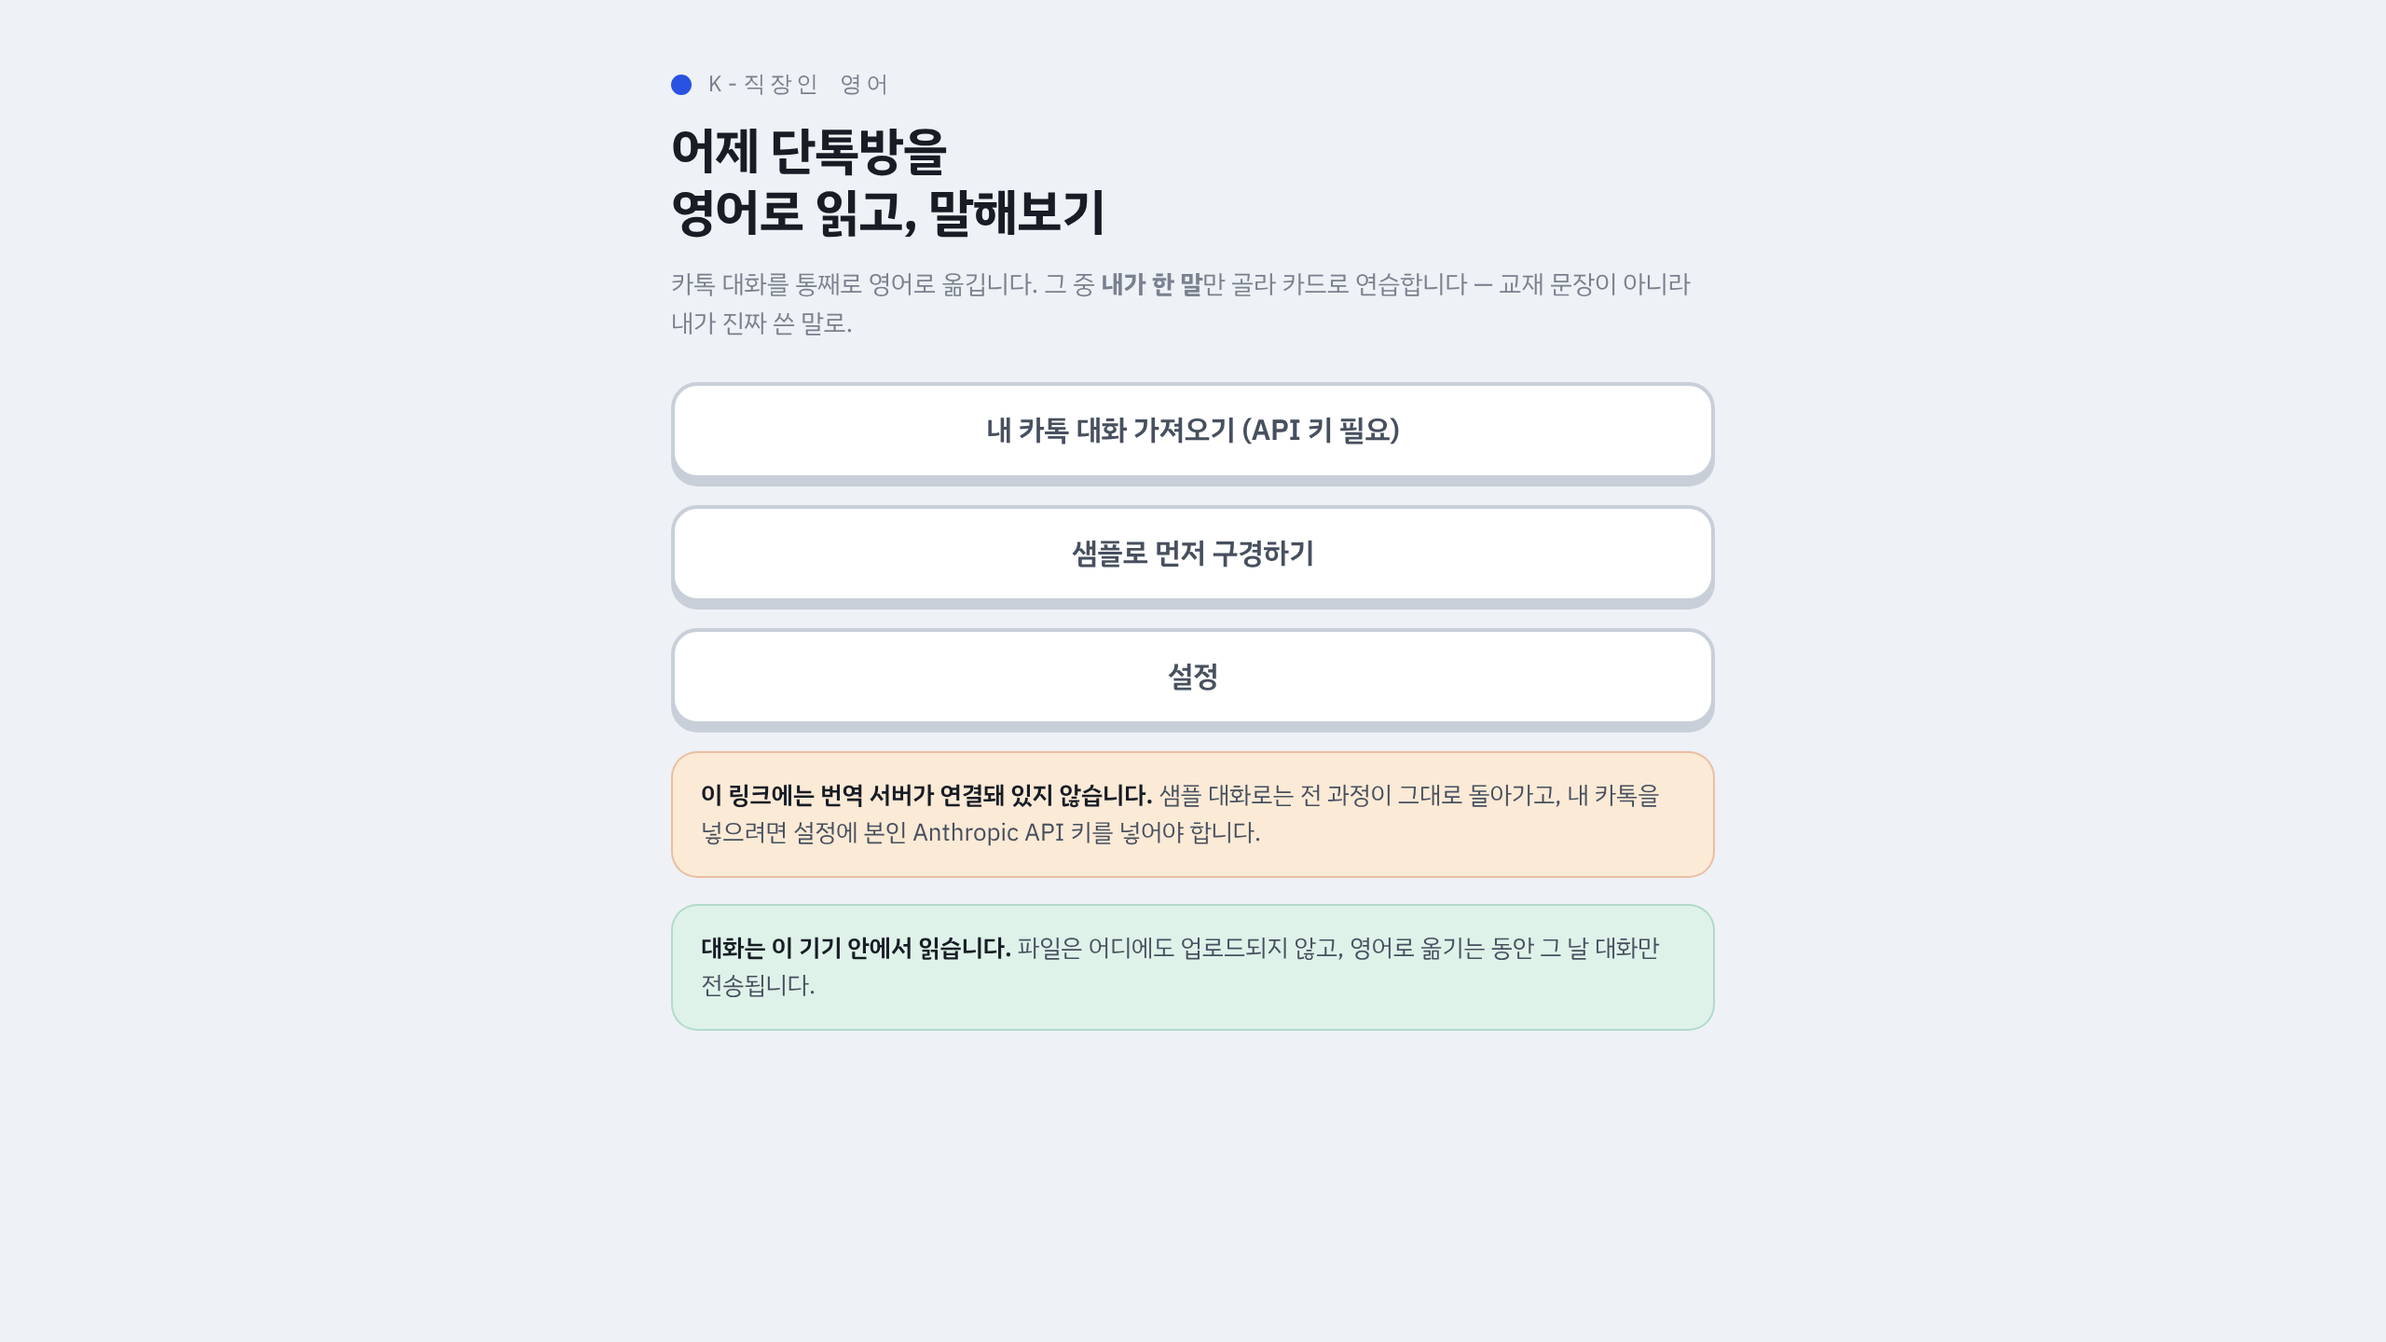
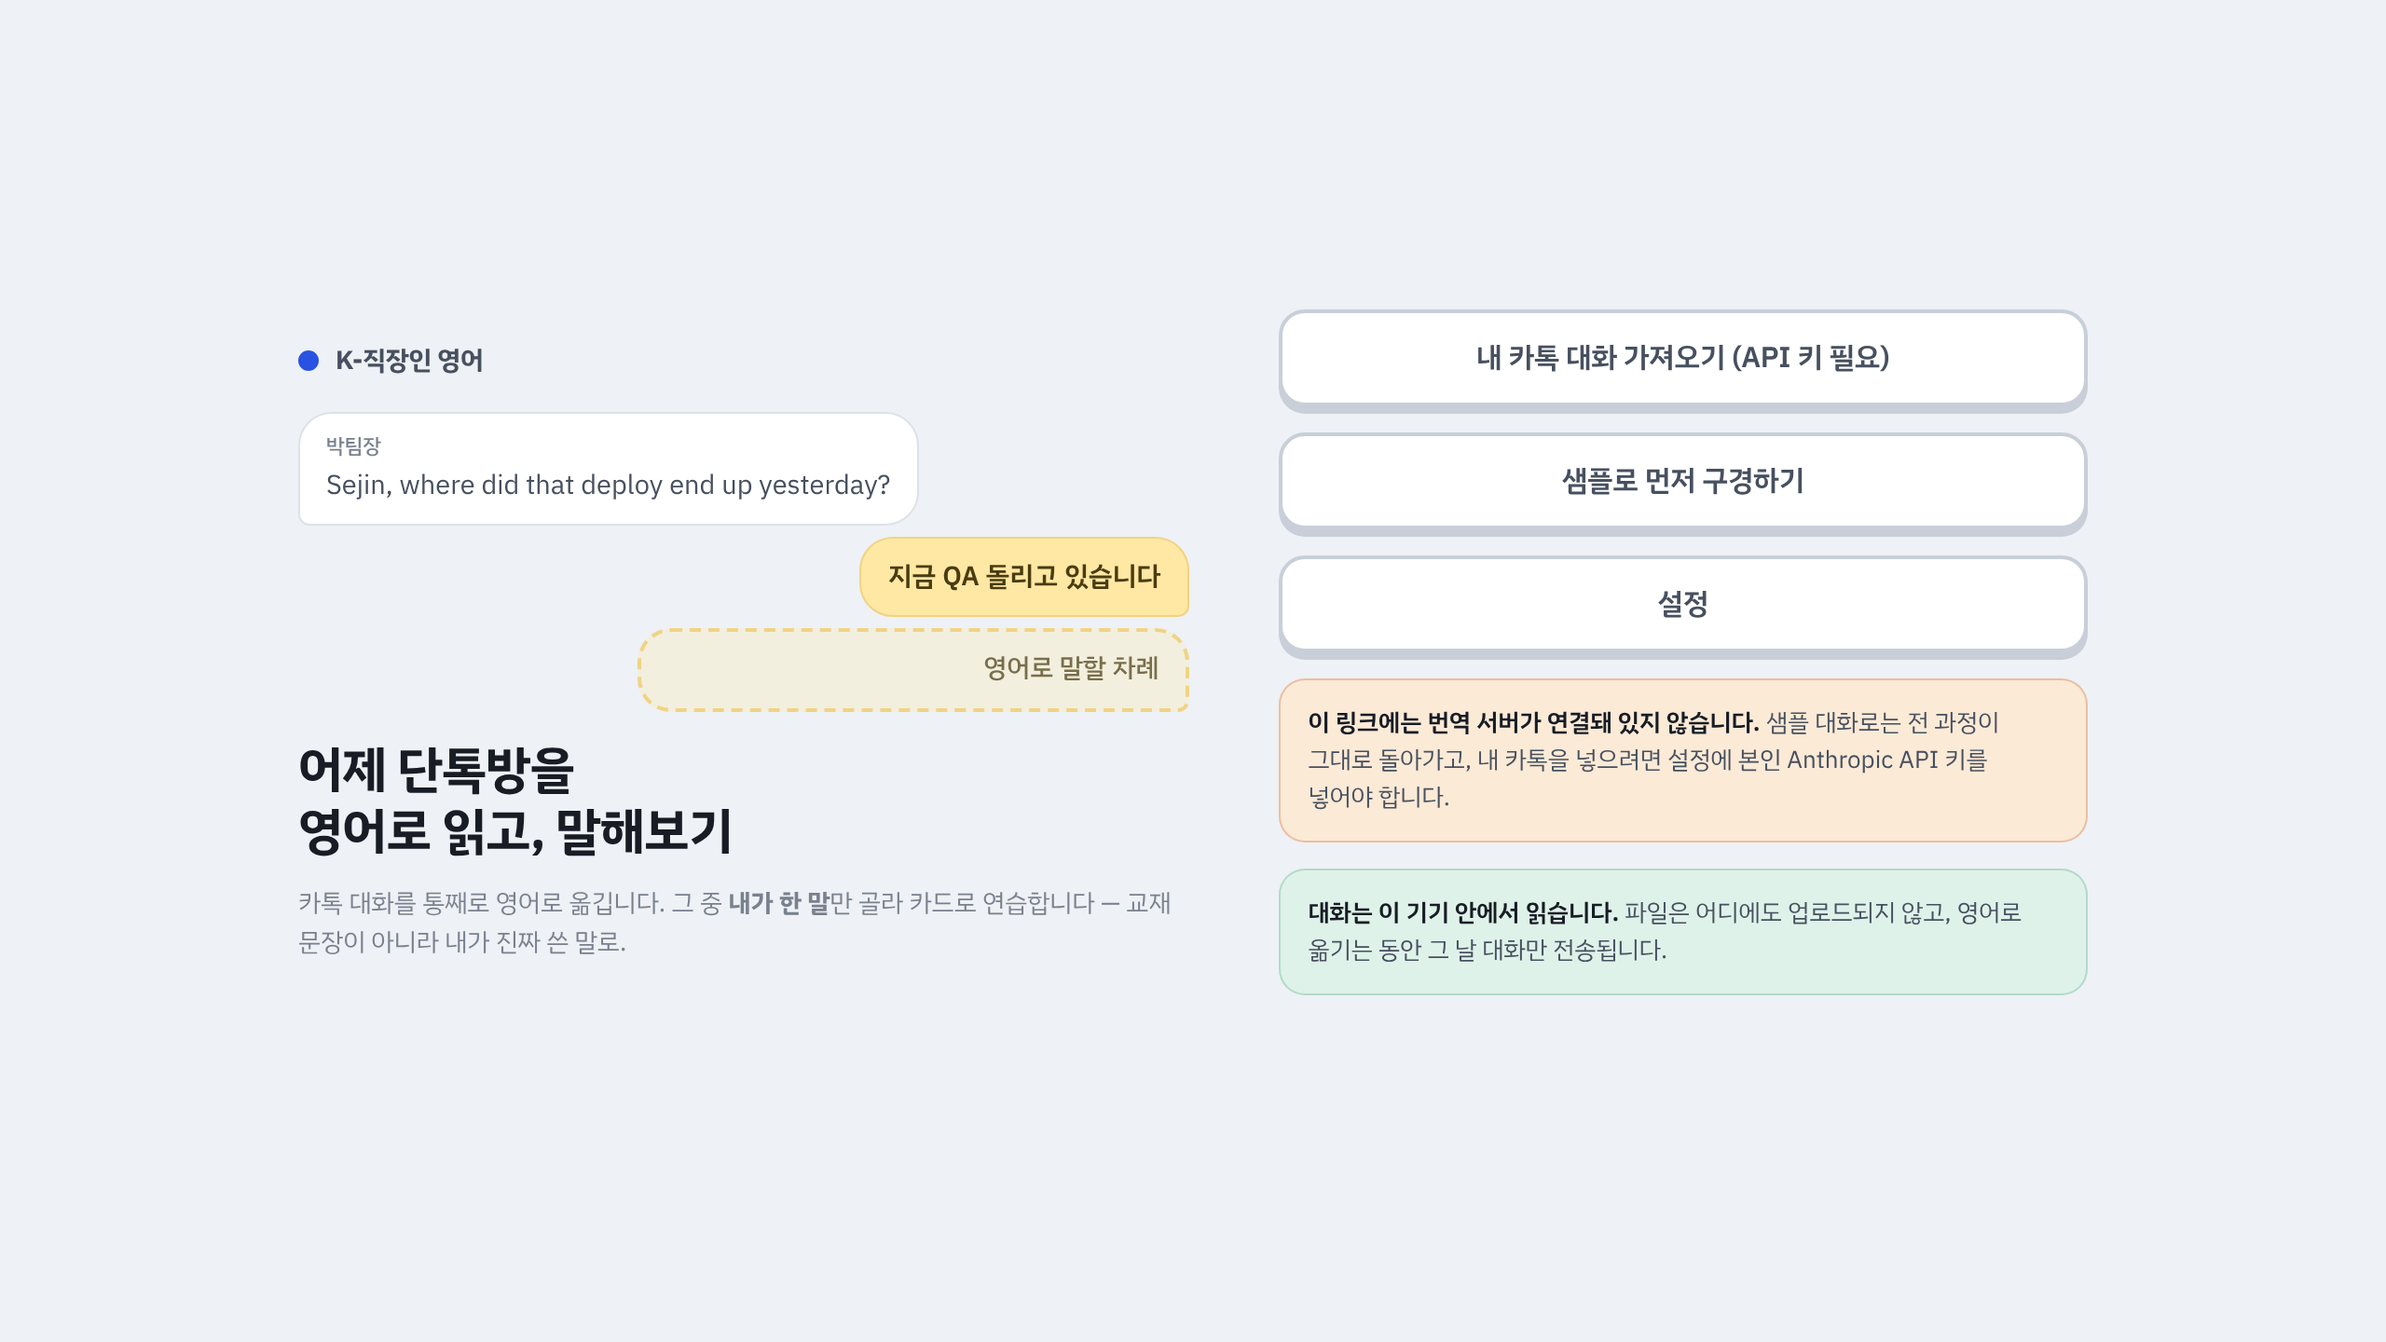
Show the product on the first screen, and drop the template tells
The first screen was a headline and four buttons, so what the app does had
to be read rather than seen. It now opens on a real exchange: the team lead's
question in English, my own answer in Korean, and under it my turn drawn as
an empty dashed bubble. That gap is the whole product — a conversation with
only my line missing — so it is the one loud thing on the screen, built from
the same bubbles the transcript uses so the promise matches what follows.
Unfolded, the example and the actions sit side by side.

Everything else got quieter, which mostly meant removing defaults that
appear whatever the subject: monospace for every small number, a tracked
caps wordmark, and labels joined with middle dots. Numbers are now the body
face with tabular figures, the wordmark is set like a name, and the meta
lines read as Korean ("개발3팀 대화 11줄", "이어서 하기 (2일 남음)"). Dropping
the mono face also drops one web font download.

The day list leads with the day of the month, large, coloured by state —
grey untouched, blue in progress, green done — because a list of dates is
scanned by date, and the year repeats on every row anyway. The weekday is
computed rather than parsed, so it is right for any export.

Korean now wraps between words (keep-all). Mid-word breaks like 골/라 were
showing up in the store screenshots and read as typos.

Store screenshots regenerated; the feature graphic is untouched.

Claude-Session: https://claude.ai/code/session_01DYwDMLoZ7g9WdK6CTYFrUa

Changed region(s): [[0.125, 0.0938, 0.875, 0.75], [0.2812, 0.2812, 0.375, 0.3125], [0.125, 0.25, 0.2188, 0.2812]]

diff --git a/app/styles.css b/app/styles.css
@@ -65,6 +65,9 @@ body {
   font-size: 16px;
   line-height: 1.5;
   -webkit-text-size-adjust: 100%;
+  /* Korean wraps between words, not between syllables: "골/라" mid-word reads
+     as a typo. break-word still rescues a URL or an unbroken English string. */
+  word-break: keep-all; overflow-wrap: break-word;
   overscroll-behavior-y: contain;
 }
 #app {
@@ -80,10 +83,7 @@ h1 { font-size: 27px; line-height: 1.24; font-weight: 700; letter-spacing: -.015
 h2 { font-size: 18px; font-weight: 600; margin: 0; letter-spacing: -.01em; }
 p { margin: 0; color: var(--ink-2); }
 .small { font-size: 13.5px; color: var(--muted); line-height: 1.55; }
-.eyebrow {
-  font-family: var(--mono); font-size: 11px; font-weight: 500;
-  letter-spacing: .14em; color: var(--muted); text-transform: uppercase;
-}
+.eyebrow { font-size: 13px; font-weight: 600; color: var(--accent); }
 .stack { display: flex; flex-direction: column; gap: 14px; }
 .center {
   flex: 1; display: flex; flex-direction: column; justify-content: center;
@@ -136,7 +136,7 @@ input[type="file"] { position: absolute; width: 1px; height: 1px; opacity: 0; }
 label.field { display: flex; flex-direction: column; gap: 6px; font-size: 13px; color: var(--ink-2); font-weight: 500; }
 
 .howto { display: grid; grid-template-columns: auto 1fr; gap: 7px 12px; align-items: baseline; }
-.howto dt { font-family: var(--mono); font-size: 11.5px; color: var(--accent); font-weight: 500; }
+.howto dt { font-size: 13px; color: var(--accent); font-weight: 700; font-variant-numeric: tabular-nums; }
 .howto dd { margin: 0; font-size: 13.5px; color: var(--ink-2); }
 
 .note {
@@ -151,7 +151,26 @@ label.field { display: flex; flex-direction: column; gap: 6px; font-size: 13px; 
 .masthead { padding-block: 36px 20px; display: flex; flex-direction: column; gap: 11px; }
 .wordmark { display: flex; align-items: center; gap: 9px; }
 .wordmark .dot { width: 11px; height: 11px; border-radius: 50%; background: var(--accent); flex: none; }
-.wordmark span { font-family: var(--mono); font-size: 12px; letter-spacing: .18em; text-transform: uppercase; color: var(--muted); }
+
+/* ── the first screen's one loud thing: a real exchange with my turn empty ──
+   Same bubbles the transcript uses, so the promise and the product match. The
+   empty turn is drawn, not described: a dashed outline in the yellow of my
+   own lines, waiting to be filled. */
+.hero-chat { margin: 6px 0 4px; display: flex; flex-direction: column; gap: 6px; }
+.hc { margin: 0; max-width: 86%; padding: 10px 14px; border-radius: 18px; font-size: 14.5px; line-height: 1.45; }
+.hc .who { display: block; font-size: 11px; color: var(--muted); font-weight: 500; margin-bottom: 2px; }
+.hc.them { align-self: flex-start; background: var(--surface); border: 1px solid var(--line); border-bottom-left-radius: 6px; color: var(--ink-2); }
+.hc.mine {
+  align-self: flex-end; background: var(--mine); color: var(--mine-ink); border: 1px solid var(--mine-line);
+  border-bottom-right-radius: 6px; font-weight: 600;
+}
+.hc.turn {
+  align-self: flex-end; min-width: 62%; text-align: right;
+  border: 2px dashed var(--mine-line); border-bottom-right-radius: 6px;
+  font-size: 14px; font-weight: 500; color: color-mix(in srgb, var(--mine-ink) 72%, transparent);
+  background: color-mix(in srgb, var(--mine) 28%, transparent);
+}
+.wordmark span { font-size: 14px; font-weight: 700; letter-spacing: -.01em; color: var(--ink-2); }
 
 .topbar {
   display: flex; align-items: center; gap: 12px; padding-block: 16px 14px;
@@ -161,7 +180,7 @@ label.field { display: flex; flex-direction: column; gap: 6px; font-size: 13px; 
 
 .statline { display: flex; flex-wrap: wrap; gap: 6px 18px; }
 .stat { display: flex; flex-direction: column; gap: 1px; }
-.stat b { font-family: var(--mono); font-size: 20px; font-weight: 500; font-variant-numeric: tabular-nums; color: var(--ink); }
+.stat b { font-size: 21px; font-weight: 700; font-variant-numeric: tabular-nums; color: var(--ink); }
 .stat span { font-size: 11.5px; color: var(--muted); }
 
 .rail { width: 100%; height: 10px; background: var(--line); border-radius: 99px; overflow: hidden; }
@@ -189,7 +208,7 @@ label.field { display: flex; flex-direction: column; gap: 6px; font-size: 13px; 
 .picker:has(input:checked) { border-color: var(--accent); background: var(--accent-soft); }
 .picker input { accent-color: var(--accent); width: 18px; height: 18px; flex: none; }
 .picker .nm { flex: 1; font-weight: 600; }
-.picker .ct { font-family: var(--mono); font-size: 12.5px; color: var(--muted); font-variant-numeric: tabular-nums; }
+.picker .ct { font-size: 13px; color: var(--muted); font-variant-numeric: tabular-nums; }
 
 .days { display: flex; flex-direction: column; gap: 8px; overflow-y: auto; }
 .day {
@@ -201,11 +220,17 @@ label.field { display: flex; flex-direction: column; gap: 6px; font-size: 13px; 
 .day .when { flex: 1; display: flex; flex-direction: column; gap: 2px; }
 .day .when b { font-size: 15.5px; font-weight: 700; letter-spacing: -.01em; }
 .day .when span { font-size: 12px; color: var(--muted); }
-.day .n { font-family: var(--mono); font-size: 13px; color: var(--muted); font-variant-numeric: tabular-nums; flex: none; }
-.day .pip { width: 10px; height: 10px; border-radius: 50%; flex: none; background: var(--line-2); }
+.day .n { font-size: 13px; color: var(--muted); font-variant-numeric: tabular-nums; flex: none; }
+/* The date itself is the marker: grey before it is touched, blue while it is
+   in progress, green once it is done. */
+.day .dd {
+  flex: none; width: 44px; text-align: center;
+  font-size: 28px; line-height: 1; font-weight: 700; letter-spacing: -.03em;
+  font-variant-numeric: tabular-nums; color: var(--muted);
+}
 .day.ready { border-color: var(--accent); }
-.day.ready .pip { background: var(--accent); }
-.day.done .pip { background: var(--yes); }
+.day.ready .dd { color: var(--accent); }
+.day.done .dd { color: var(--yes); }
 .day.done .when b { color: var(--muted); font-weight: 500; }
 
 .transcript { display: flex; flex-direction: column; gap: 7px; max-height: 230px; overflow-y: auto; padding: 4px 2px; }
@@ -242,7 +267,7 @@ label.field { display: flex; flex-direction: column; gap: 6px; font-size: 13px; 
 /* ─────────── practice: the swipe deck ─────────── */
 .pr-head { display: flex; align-items: center; gap: 12px; padding-block: 14px 12px; }
 .pr-head .rail { flex: 1; }
-.counter { font-family: var(--mono); font-size: 13px; color: var(--muted); font-variant-numeric: tabular-nums; flex: none; font-weight: 500; }
+.counter { font-size: 13px; color: var(--muted); font-variant-numeric: tabular-nums; flex: none; font-weight: 500; }
 
 /* A card, not a panel: on a tall phone an edge-to-edge card is mostly empty
    white, so the deck is capped and the slack goes above it. That also puts the
@@ -282,7 +307,7 @@ label.field { display: flex; flex-direction: column; gap: 6px; font-size: 13px; 
 
 .tags { display: flex; gap: 6px; align-items: center; flex-wrap: wrap; }
 .tag {
-  font-family: var(--mono); font-size: 11px; letter-spacing: .08em;
+  font-size: 12px;
   padding: 4px 10px; border-radius: 99px;
   background: var(--accent-soft); color: var(--accent); font-weight: 500;
 }
@@ -327,7 +352,7 @@ label.field { display: flex; flex-direction: column; gap: 6px; font-size: 13px; 
 .heard { font-size: 13px; color: var(--muted); font-style: italic; }
 .heard b { font-style: normal; color: var(--ink-2); font-weight: 500; }
 .score {
-  display: inline-flex; gap: 6px; font-family: var(--mono); font-size: 12.5px;
+  display: inline-flex; gap: 6px; font-size: 13px; font-weight: 600;
   padding: 4px 10px; border-radius: 99px; align-self: flex-start; font-variant-numeric: tabular-nums;
 }
 .score.hit { background: var(--yes-soft); color: var(--yes); }
@@ -404,6 +429,12 @@ label.field { display: flex; flex-direction: column; gap: 6px; font-size: 13px; 
    and the page only reflows, so a half-finished deck survives the hinge. */
 @media (min-width: 720px) {
   #app { max-width: 1040px; padding-inline: 28px; }
+
+  /* Unfolded, the first screen has room for the example and the actions side
+     by side, so neither has to be scrolled to. */
+  #s-home { max-width: 960px; }
+  #s-home.on { display: grid; grid-template-columns: minmax(0, 1.1fr) minmax(0, 1fr); column-gap: 48px; align-items: center; }
+  #s-home .masthead { padding-block: 40px; }
 
   /* Most screens are a short form or a column of buttons. Stretched to 1000px
      they read worse, not better, so they stay a comfortable column. */

diff --git a/app/js/main.js b/app/js/main.js
@@ -106,7 +106,7 @@ function refreshHome() {
 
   if (!has) return;
   const remaining = state.days.filter((d) => dayStatus(d) !== 'done').length;
-  $('go-resume').textContent = remaining ? `이어서 하기 · ${remaining}일 남음` : `복습하기 · ${state.days.length}일치`;
+  $('go-resume').textContent = remaining ? `이어서 하기 (${remaining}일 남음)` : `복습하기 (${state.days.length}일치)`;
 }
 
 /* ══════ import ══════ */
@@ -198,15 +198,19 @@ const dayStatus = (d) =>
 function renderDays() {
   const total = state.days.reduce((a, d) => a + (d.cards.length || 0), 0);
   const finished = state.days.filter((d) => dayStatus(d) === 'done').length;
-  $('days-sub').textContent = `${state.days.length}일치 · 카드 ${total}개 · 완료 ${finished}일`;
+  $('days-sub').textContent = `${state.days.length}일치 대화, 카드 ${total}개, ${finished}일 끝냄`;
 
   $('day-list').innerHTML = state.days.map((d, i) => {
     const st = dayStatus(d);
     const label = st === 'done' ? '완료' : st === 'ready' ? '이어서' : '아직 안 옮김';
     const n = d.built ? `${d.cards.length}장` : `${d.messages.length}줄`;
+    // The day of the month leads, large: a list of dates is scanned by date,
+    // the way a calendar is, and the year is the same on every row.
+    const [, y, mo, dd] = d.date.match(/(\d{4})년 (\d{1,2})월 (\d{1,2})일/) || [];
+    const wd = y ? '일월화수목금토'[new Date(+y, mo - 1, +dd).getDay()] + '요일' : '';
     return `<button class="day ${st}" data-i="${i}">
-      <i class="pip"></i>
-      <span class="when"><b>${esc(d.date)}</b><span>${label}</span></span>
+      <span class="dd" aria-hidden="true">${dd || ''}</span>
+      <span class="when"><b>${y ? `${mo}월 ${dd}일 ${wd}` : esc(d.date)}</b><span>${label}</span></span>
       <span class="n">${n}</span>
     </button>`;
   }).join('');
@@ -237,7 +241,7 @@ async function build(day) {
   $('build-back').classList.add('hide');
   $('build-spin').classList.remove('hide');
   $('build-title').textContent = '영어로 옮기는 중';
-  $('build-sub').textContent = `${day.date} · ${day.messages.length}줄`;
+  $('build-sub').textContent = `${day.date}, ${day.messages.length}줄`;
   $('build-bar').style.width = '0%';
   $('build-count').textContent = '';
 
@@ -310,7 +314,7 @@ async function build(day) {
 function renderTranscript() {
   const day = state.days[activeDay];
   $('tx-title').textContent = day.date;
-  $('tx-sub').textContent = state.roomTitle ? `${state.roomTitle} · ${day.messages.length}줄` : `${day.messages.length}줄`;
+  $('tx-sub').textContent = state.roomTitle ? `${state.roomTitle} 대화 ${day.messages.length}줄` : `대화 ${day.messages.length}줄`;
 
   // Which name is mine is the one thing the app cannot work out for itself, so
   // it asks — but only until it has an answer. After that the question collapses

diff --git a/app/index.html b/app/index.html
@@ -14,7 +14,7 @@
 <title>K-직장인 영어</title>
 <link rel="preconnect" href="https://fonts.googleapis.com">
 <link rel="preconnect" href="https://fonts.gstatic.com" crossorigin>
-<link rel="stylesheet" href="https://fonts.googleapis.com/css2?family=IBM+Plex+Mono:wght@400;500&family=IBM+Plex+Sans+KR:wght@400;500;600;700&family=Newsreader:ital,opsz,wght@0,6..72,400;0,6..72,500;1,6..72,400&display=swap">
+<link rel="stylesheet" href="https://fonts.googleapis.com/css2?family=IBM+Plex+Sans+KR:wght@400;500;600;700&family=Newsreader:ital,opsz,wght@0,6..72,400;0,6..72,500;1,6..72,400&display=swap">
 <link rel="stylesheet" href="styles.css">
 
 <div id="app">
@@ -23,6 +23,14 @@
   <section class="screen on" id="s-home">
     <div class="masthead">
       <div class="wordmark"><i class="dot"></i><span>K-직장인 영어</span></div>
+      <!-- The product in one glance: yesterday's question in English, my own
+           answer in Korean, and the gap where my English goes. That gap is
+           the whole app, so it is the one loud thing on the screen. -->
+      <figure class="hero-chat" aria-label="예시 대화: 팀장님의 영어 질문, 내가 한국어로 한 대답, 그리고 영어로 채울 내 차례">
+        <p class="hc them"><span class="who">박팀장</span>Sejin, where did that deploy end up yesterday?</p>
+        <p class="hc mine">지금 QA 돌리고 있습니다</p>
+        <p class="hc turn" aria-hidden="true">영어로 말할 차례</p>
+      </figure>
       <h1>어제 단톡방을<br>영어로 읽고, 말해보기</h1>
       <p class="small">카톡 대화를 통째로 영어로 옮깁니다. 그 중 <b>내가 한 말</b>만 골라 카드로 연습합니다 — 교재 문장이 아니라 내가 진짜 쓴 말로.</p>
     </div>
